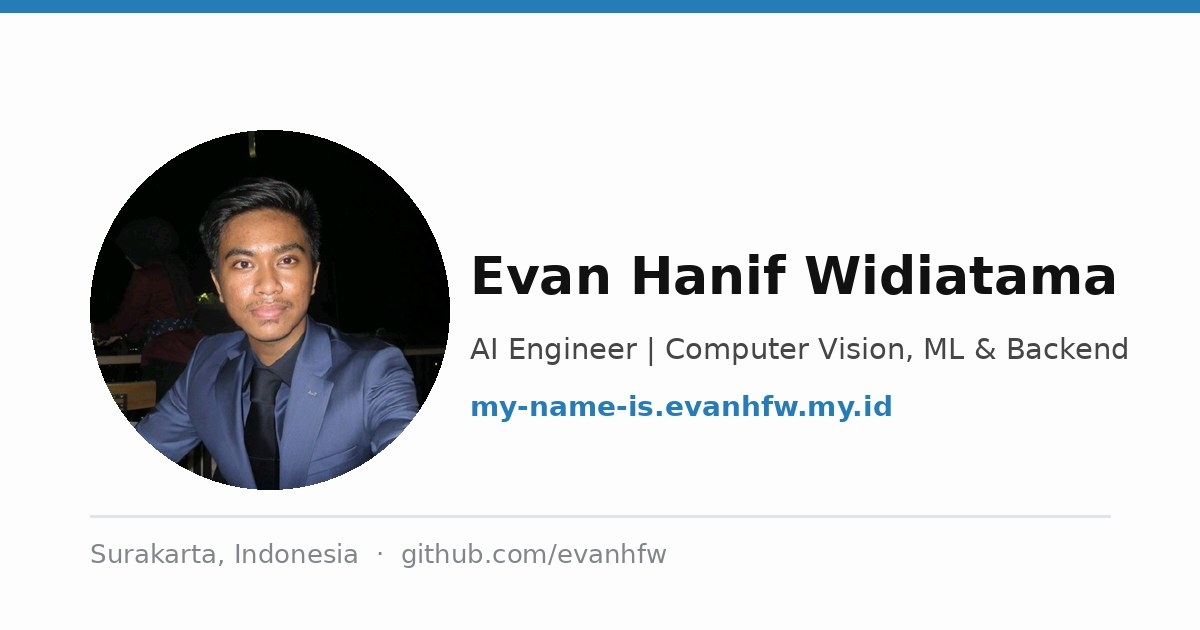
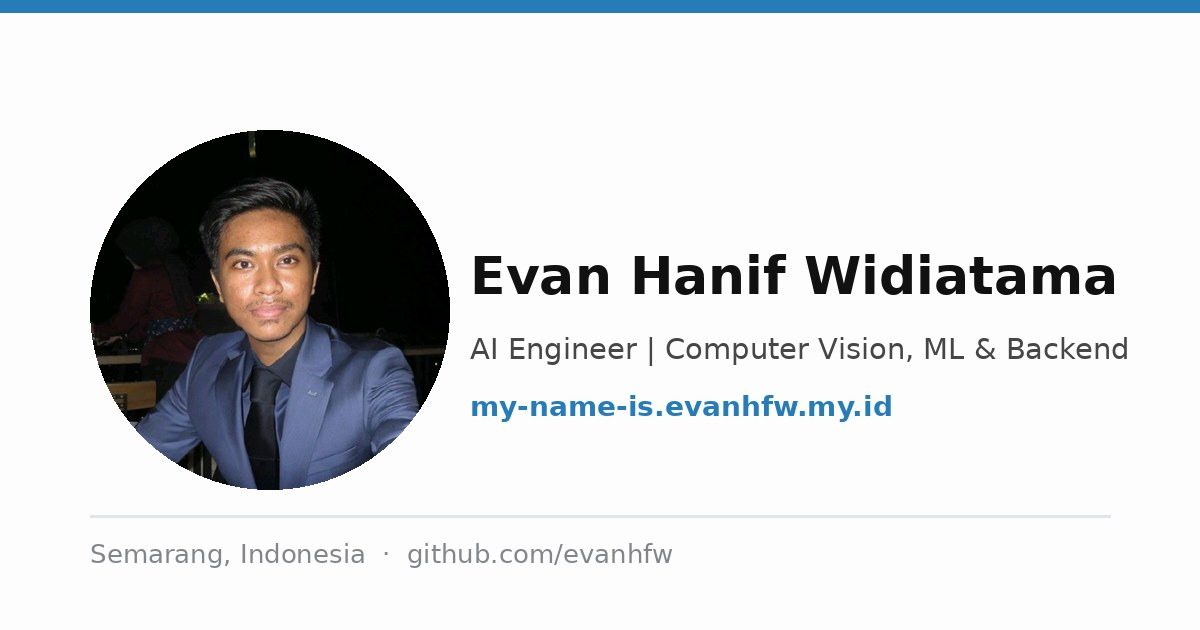
uses: terminal-first workflow (Ghostty + LazyVim + herdr), MacBook Neo, Omarchy; location -> Semarang
- /uses: add MacBook Neo (mobile daily driver), workstation runs Omarchy,
  terminal-first software stack; correct per-node OS list
- relocate personal location Semarang across site: index.md, JSON-LD,
  terminal whoami, chat profile, regenerated og-card (?v=2)

Changed region(s): [[0.3392, 0.8444, 0.555, 0.9048], [0.0925, 0.8444, 0.3083, 0.9048]]

diff --git a/uses/index.html b/uses/index.html
@@ -10,12 +10,14 @@ title: Uses
   <li><b>z6 — mini-PC</b> (Intel i3-1215U, 16 GB RAM): the 24/7 node at home. All the containers, real-time CCTV analytics (Frigate + face recognition), the AI agents, and this website.</li>
   <li><b>sumopod — small VPS</b> (Tencent Cloud, 2 vCPU / 4 GB RAM): the only public entry point — reverse proxy + Cloudflare, monitoring, analytics, LLM router.</li>
   <li><b>armbian — STB</b> (Armbian Linux): Pi-hole for network-wide DNS + a power controller that wakes the workstation.</li>
-  <li><b>workstation — Ryzen 9 9900X</b> (32 GB RAM, GTX 1660 Super, Omarchy): on-demand compute for heavy workloads. Usually off, powered on when needed.</li>
+  <li><b>workstation — Ryzen 9 9900X</b> (32 GB RAM, GTX 1660 Super): runs <b>Omarchy</b> (Arch-based), my on-demand compute for heavy workloads. Usually off, powered on when needed.</li>
+  <li><b>MacBook Neo</b> (macOS) — my daily driver when I'm mobile.</li>
 </ul>
 
 <h3>🧩 Software</h3>
 <ul>
-  <li><b>Ubuntu Linux</b> on every node.</li>
+  <li><b>Terminal-first, all day:</b> <b>Ghostty</b> as the terminal, <b>LazyVim</b> (Neovim) as the IDE, and <b>herdr</b> as the terminal workspace manager that runs my AI coding agents and dev sessions. I basically live in the terminal.</li>
+  <li><b>Linux everywhere:</b> Ubuntu on z6, OpenCloudOS on the VPS, Armbian on the STB, Omarchy (Arch-based) on the workstation.</li>
   <li><b>Docker + Compose</b> for all services; <b>Caddy</b> as reverse proxy with automatic certificates.</li>
   <li><b>Tailscale</b> — mesh VPN; private services are never exposed directly to the internet.</li>
   <li><b>Cloudflare</b> — DNS, edge, and TLS for public domain names.</li>

diff --git a/_includes/head-custom.html b/_includes/head-custom.html
@@ -16,9 +16,9 @@
   "name": "Evan Hanif Widiatama",
   "jobTitle": "AI Engineer",
   "url": "https://my-name-is.evanhfw.my.id/",
-  "image": "https://my-name-is.evanhfw.my.id/assets/img/og-card.jpg",
+  "image": "https://my-name-is.evanhfw.my.id/assets/img/og-card.jpg?v=2",
   "email": "mailto:evan.hanif.w@gmail.com",
-  "address": { "@type": "PostalAddress", "addressLocality": "Surakarta", "addressCountry": "ID" },
+  "address": { "@type": "PostalAddress", "addressLocality": "Semarang", "addressCountry": "ID" },
   "alumniOf": { "@type": "CollegeOrUniversity", "name": "Universitas Sebelas Maret" },
   "worksFor": { "@type": "Organization", "name": "rubythalib.ai" },
   "sameAs": [

diff --git a/terminal/index.html b/terminal/index.html
@@ -59,7 +59,7 @@ title: Terminal
       '  open &lt;page&gt;     open a page\n' +
       '  neofetch        "system" info\n' +
       '  clear           clear the screen'),
-    whoami: () => w('evan — AI Engineer\nComputer Vision · ML · Backend · Surakarta, Indonesia\n' + P('“Every day you may make progress.”')),
+    whoami: () => w('evan — AI Engineer\nComputer Vision · ML · Backend · Semarang, Indonesia\n' + P('“Every day you may make progress.”')),
     about: () => w(
       'AI Engineer at rubythalib.ai, deployed to Sinarmas\n' +
       'Mining / PT Borneo Indobara for production AI in\n' +

diff --git a/index.md b/index.md
@@ -1,7 +1,7 @@
 ---
 layout: default
 title: AI Engineer
-image: /assets/img/og-card.jpg
+image: /assets/img/og-card.jpg?v=2
 ---
 
 ## **About Me**
@@ -12,7 +12,7 @@ Currently an **AI Engineer at rubythalib.ai**, deployed to **Sinarmas Mining / P
 ## **Profiles & Portfolio**
 🔗 [**LinkedIn**](https://www.linkedin.com/in/evanhanif/) | [**GitHub**](https://github.com/evanhfw) | [**DataCamp**](https://www.datacamp.com/portfolio/studiesevan) | [**Kaggle**](https://www.kaggle.com/vnn777) | [**Blog**](/blog/) | [**Certifications**](/certifications/) | [**Email**](mailto:evan.hanif.w@gmail.com)
 
-📍 Surakarta, Indonesia
+📍 Semarang, Indonesia
 
 🧪 **Playground:** [Ask AI](/chat/) · [Lab](/lab/) · [Terminal](/terminal/) · [Uses](/uses/)
 
